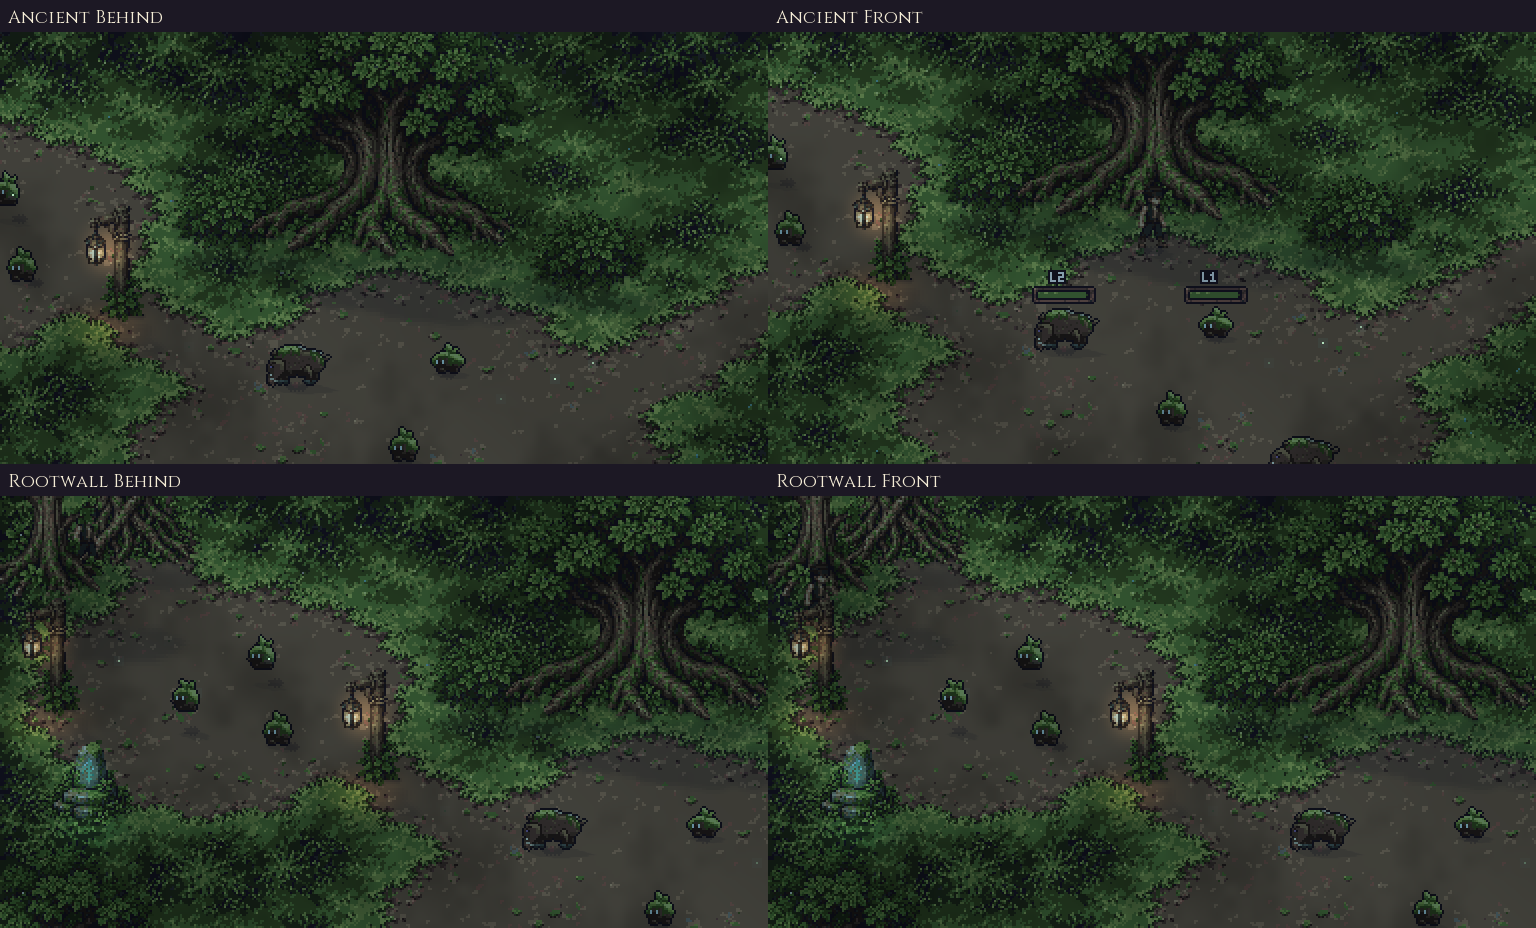
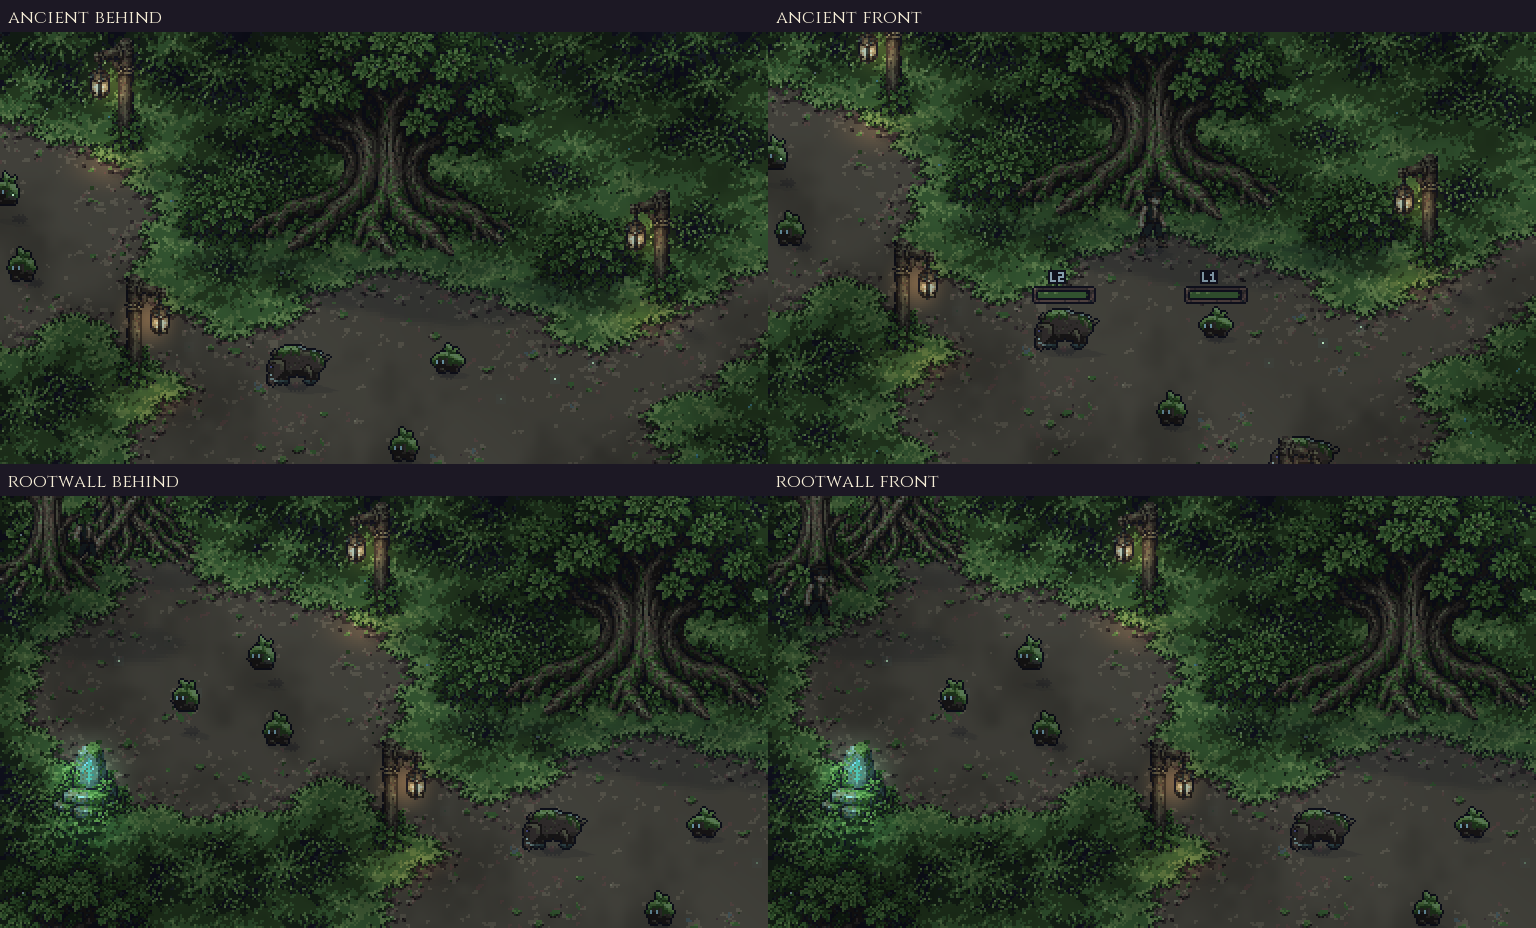
Place Root Hollow lamps from owner marks and unify rune stone glow

diff --git a/presentation/review/root_hollow_final/LAMP_REVISION.md b/presentation/review/root_hollow_final/LAMP_REVISION.md
@@ -1,0 +1,7 @@
+# Owner-marked lamps and shared rune-stone glow
+
+Owner explicitly authorized only Root Hollow's props array after the prior data/ restriction. Saved marked reference: art/reference/root_hollow_v1/lamp_marks_approved.png. Replaced both old woodland_lantern placements with four posts. Native anchor positions / facing: (187,62) left, (199,180) right, (455,138) left, (391,279) right. The top post is slightly lower than the rough mark to keep its cap inside the image; its actual pole x aligns with the mark. Sprite flip also mirrors the real off-centre pole collider and the measured lamp light socket. All non-lamp props and every non-props field are unchanged (audited against HEAD before commit). No core edits or outline/entry/exit/mob/rule changes.
+
+Matched rune stones in glade, forest and Root Hollow to glade settings: teal35px halo /1.35 energy,48px floor pool /0.7 energy. The three-stone Root Hollow cluster now has three independent rune sources. Light entry capacity raised16->32 in both shader and planner; Root Hollow uses18 entries with zero drops. Light owners prevent a cluster's own sources from projecting a shadow of the cluster onto itself. Ordinary boulders are not made magical; unlit puzzle pedestals stay distinct and only their lit state emits light.
+
+Verification: marked-lamp smoke checks exact final coordinates/facings, mirrored collider offsets, source count and no dropped lights, shared glow settings and self-shadow exclusion. All11 test_root_hollow.gd tests pass against final coordinates using TOTOY_TEST_FILTER=root_hollow (full route, clear floors, Boar lane, entries/exits and barrier states). Full harness passed Python/import/core/every smoke; focused night ambience, marked lamps and local-shadow checks were repeated after final glow-budget adjustments. Windowed captures refreshed for live Root Hollow, forest and Stag glade. Existing one-texture renderer shutdown warning persists; no capture script errors. No manual end-to-end player playthrough claimed.

diff --git a/presentation/review/root_hollow_final/REVIEW.md b/presentation/review/root_hollow_final/REVIEW.md
@@ -1,3 +1,5 @@
+Latest revision: owner-marked four-lamp placement and shared rune-stone glow; see LAMP_REVISION.md. Captures in this folder are refreshed. The original finish review below predates this explicitly authorized props-array edit.
+
 # Root Hollow final presentation check
 
 Claude presentation/art cross-review: **PASS** for the requested ad118e0f changes. Flag states are passed from the read-only snapshot; FLAG_SET refreshes placements/material, and the actual event hook swaps the gate sprite. Art catalogue additions retain native anchors and matching closed/open dimensions. Corpse-spark filter excludes state_ticks>1 but keeps a fresh killing-blow contact; focused regression confirms both cases. No additional blocking finding in the requested diff. This is not a claim about fun, balance or owner art approval.
